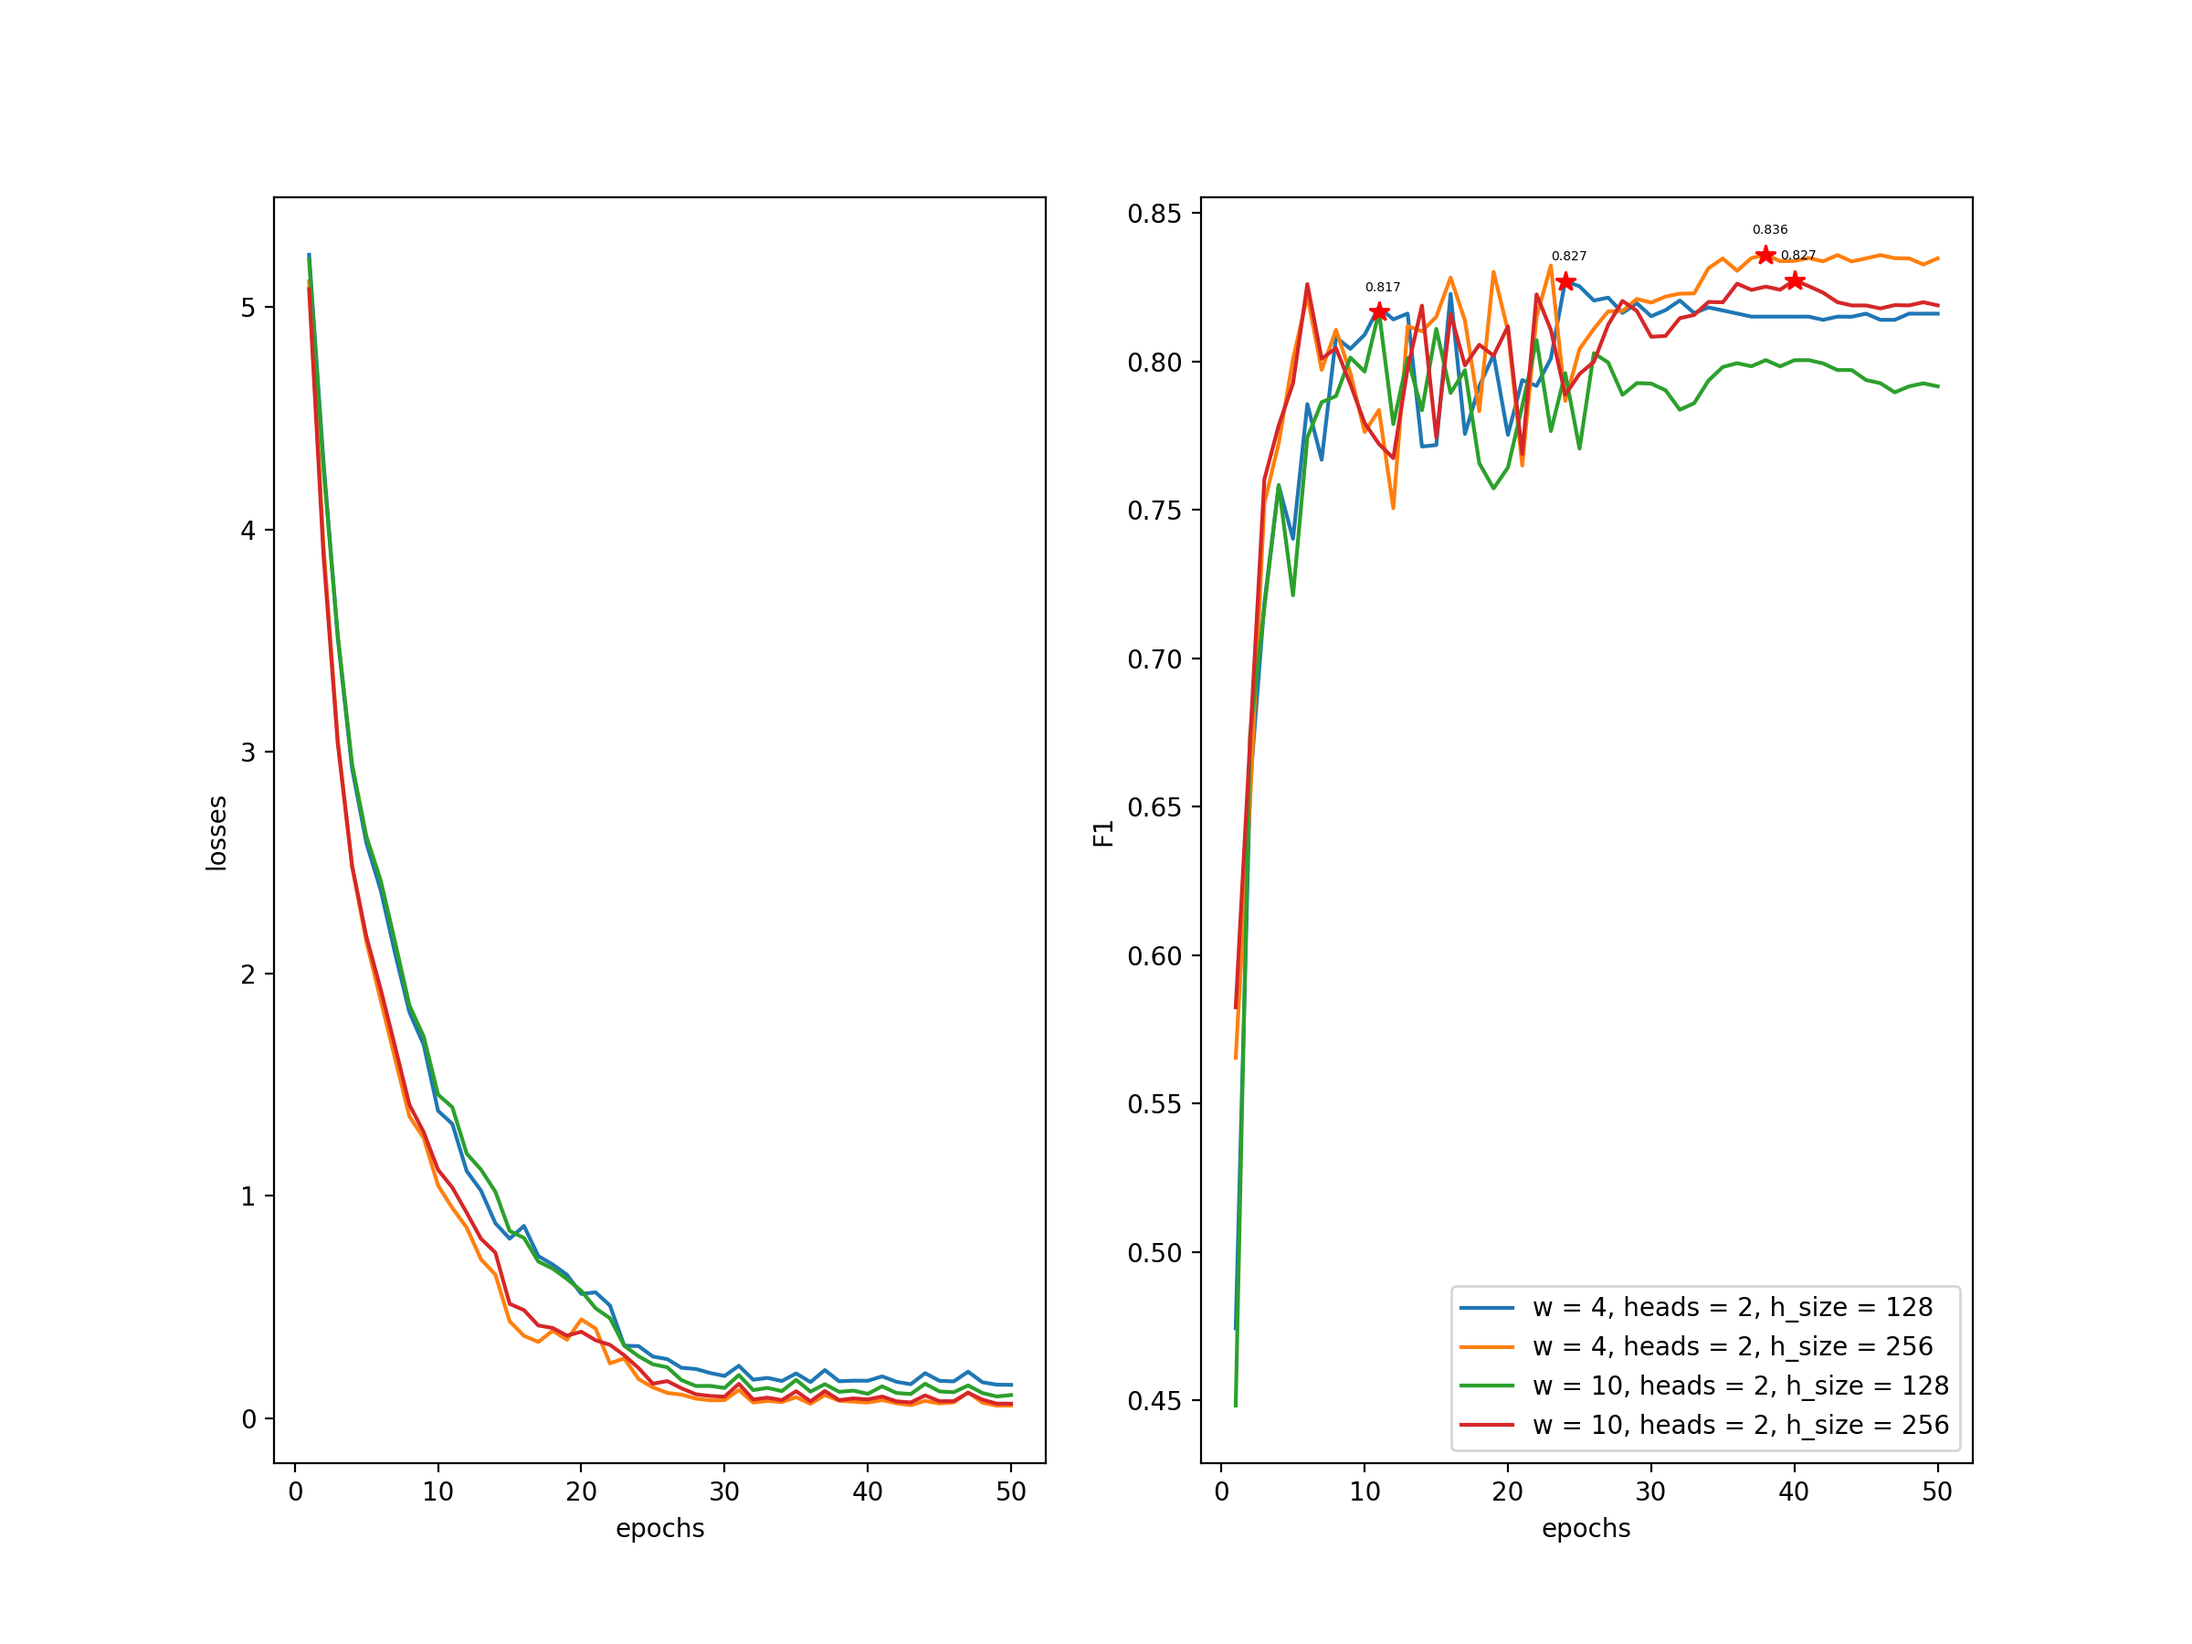
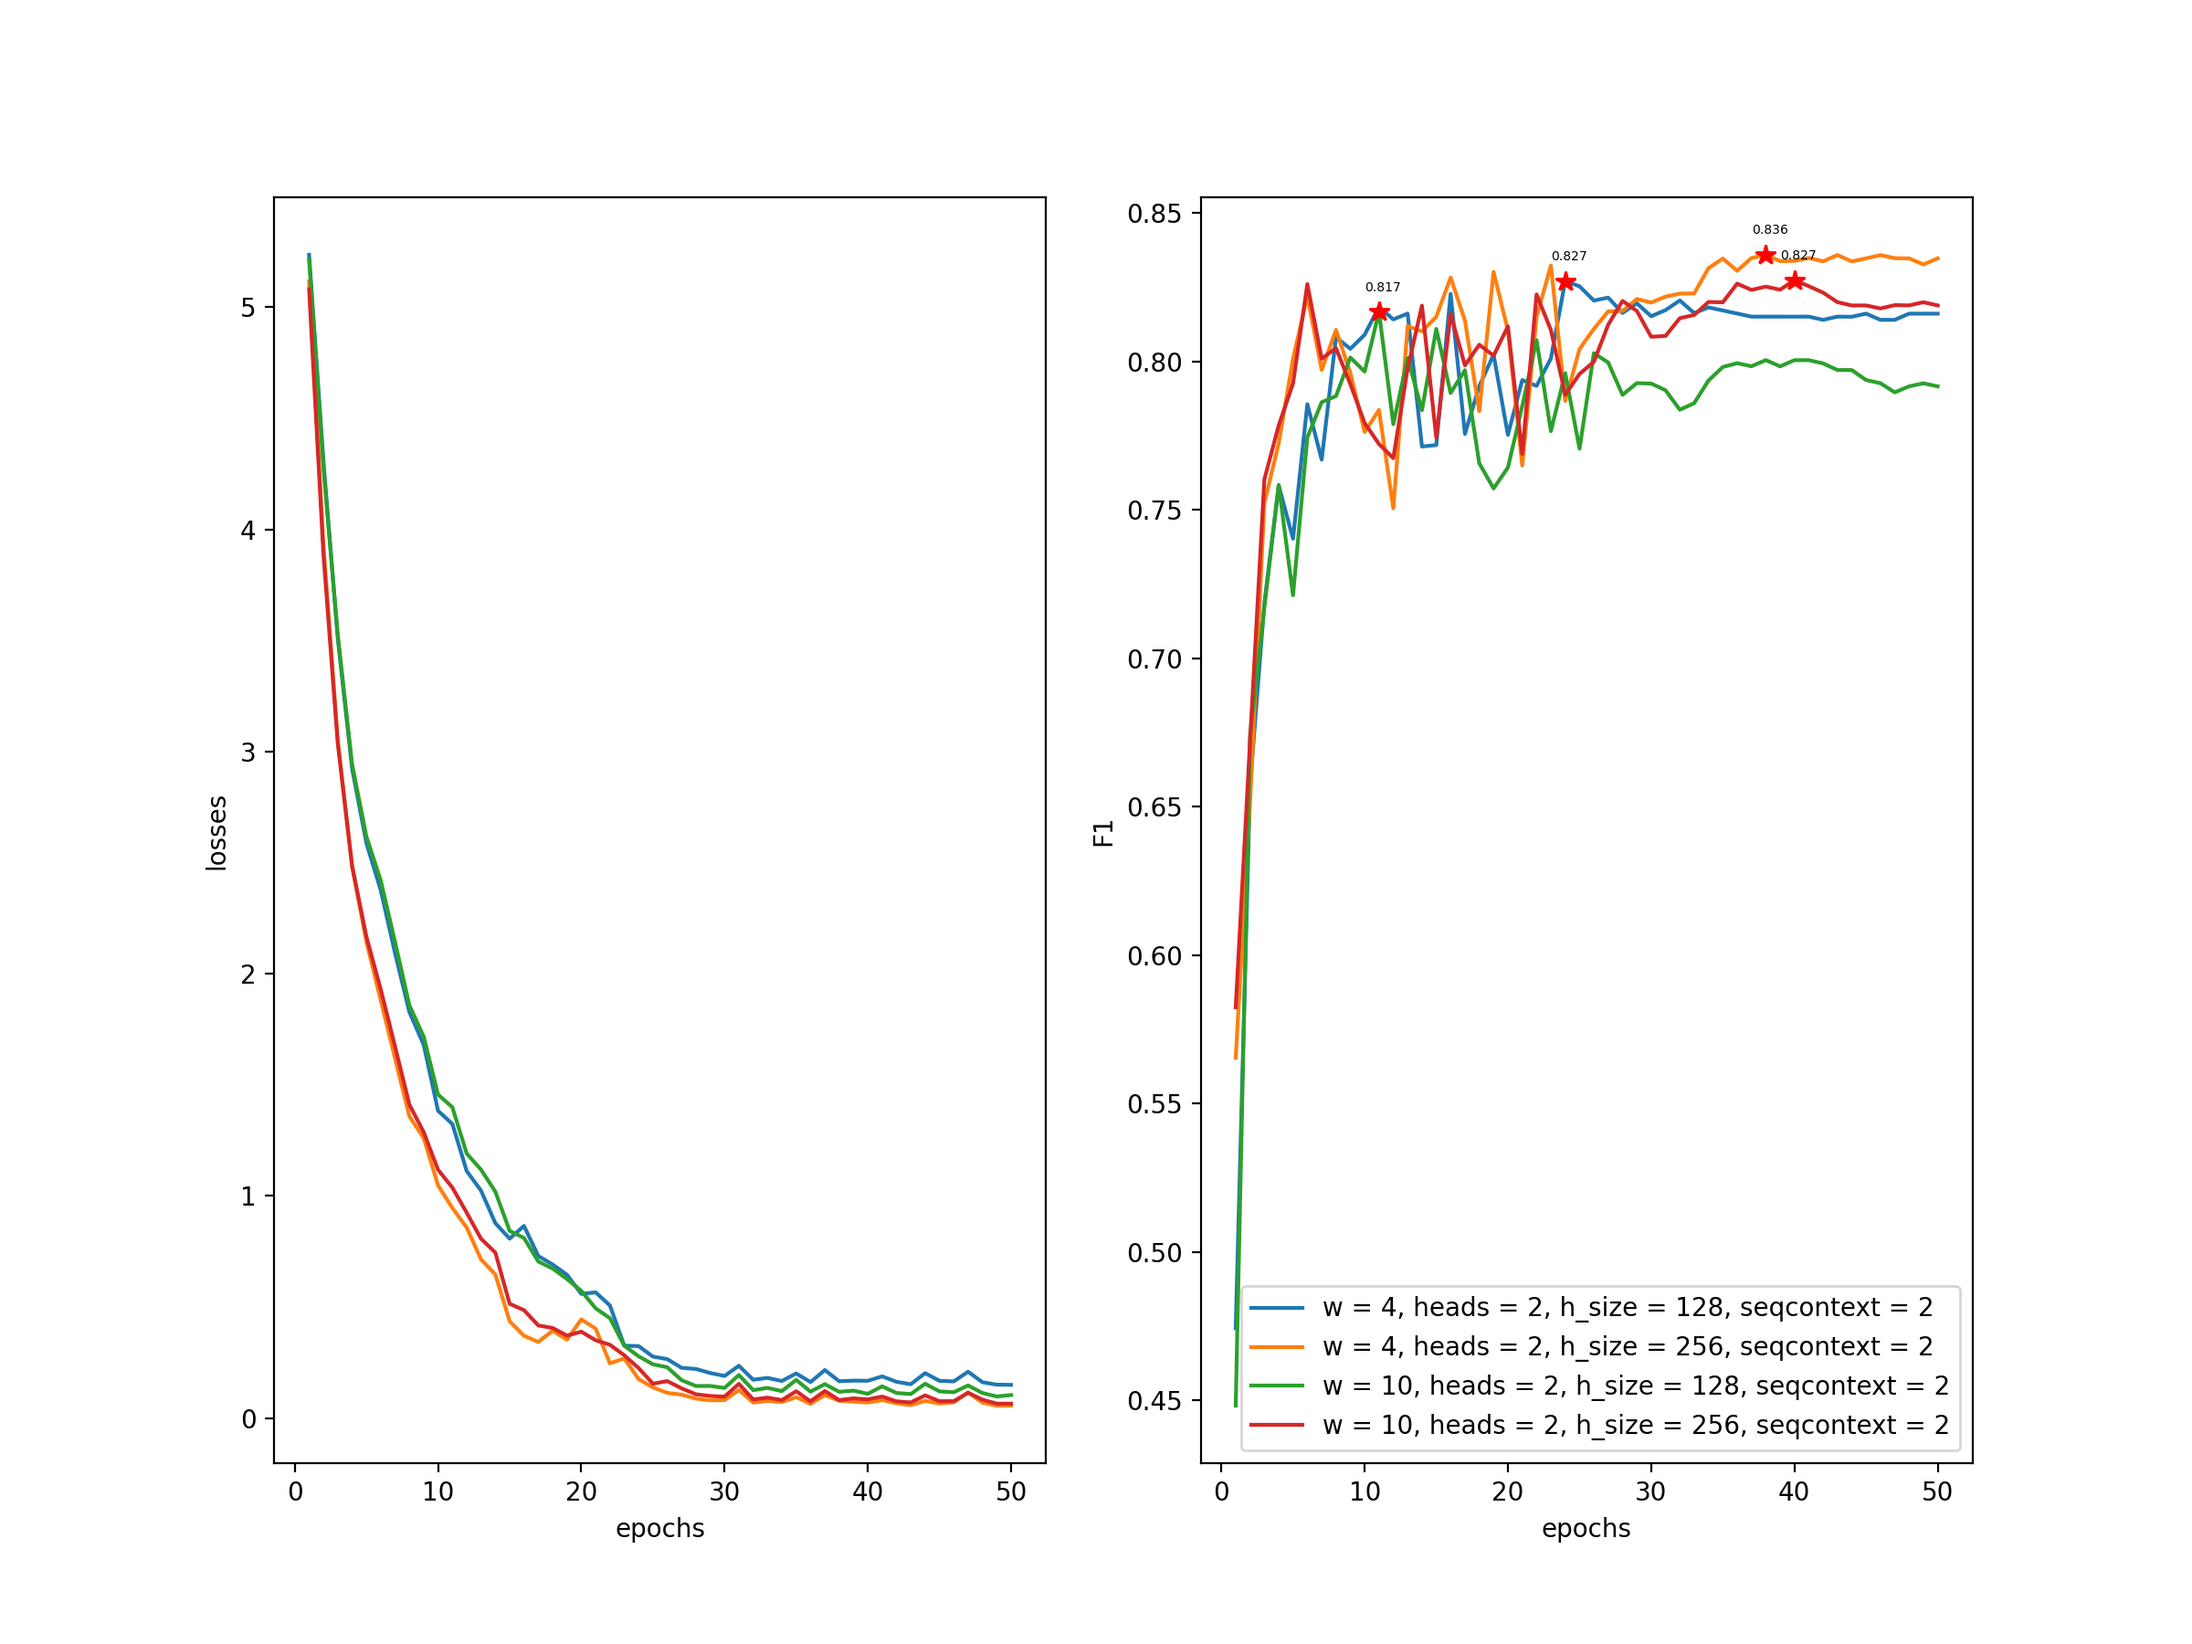
feat: optimize the visualization

Changed region(s): [[0.5625, 0.7778, 0.9062, 0.8711]]

diff --git a/plot_res.py b/plot_res.py
@@ -15,15 +15,17 @@ def plot_gnn_heads(data, args):
     for i in range(iter_num):
         epochs, train_losses, test_f1s = data.iloc[i][["epochs", "train_losses", "test_f1s"]]
         window, gnn_nheads, hidden_size, seqcontext_nlayer = data.iloc[i][["wp", "gnn_nheads", "hidden_size", "seqcontext_nlayer"]]
-        best_test_f1 = max(test_f1s)
-        best_test_f1_epoch = test_f1s.index(best_test_f1) + 1
-        epochs_range = [i for i in range(1, epochs + 1)]
+        train_losses, test_f1s = np.array(train_losses), np.array(test_f1s)
+        best_test_f1 = np.max(test_f1s)
+        best_test_f1_epoch = np.argmax(test_f1s) + 1
+        epochs_range = np.arange(1, epochs + 1)
         
         plt.subplot(1, 2, 1)
         plt.plot(epochs_range, train_losses, label=f"w = {window}, heads = {gnn_nheads}, h_size = {hidden_size}, seqcontext = {seqcontext_nlayer}")
         
         plt.subplot(1, 2, 2)
         plt.plot(epochs_range, test_f1s, label=f"w = {window}, heads = {gnn_nheads}, h_size = {hidden_size}, seqcontext = {seqcontext_nlayer}")
+        # plt.fill_between(epochs_range, test_f1s - np.std(test_f1s), test_f1s + np.std(test_f1s), alpha=0.2)
         plt.plot(best_test_f1_epoch, best_test_f1, "r*", markersize=8)
         plt.text(best_test_f1_epoch - 1, best_test_f1 + 0.007, str(f"{best_test_f1:.3f}"), fontsize=5)
 
@@ -39,60 +41,90 @@ def plot_gnn_heads(data, args):
     plt.savefig(f"results/img/gnn_heads/plot_res_{args.dataset}_{args.gnn_nheads}heads.png")
 
 
-def plot_windows(data):
+def plot_windows(data, zoom_in=True):
     def set_ticks_size(font_size):
         plt.xticks(fontsize=font_size)
         plt.yticks(fontsize=font_size)
 
     iter_num, font_size, marker_size = len(data), 20, 2
-    plt.figure(dpi=200, figsize=(20, 20))
-    grid = plt.GridSpec(2, 2, wspace=0.2, hspace=0.2)
-    colors = cm.Blues(np.linspace(0, 1, iter_num))
+    if zoom_in:
+        plt.figure(dpi=200, figsize=(20, 20))
+        grid = plt.GridSpec(2, 2, wspace=0.2, hspace=0.2)
+        colors = cm.Blues(np.linspace(0, 1, iter_num))
 
-    for i in range(iter_num):
-        epochs, window, train_losses, test_f1s = data.iloc[i][["epochs", "wp", "train_losses", "test_f1s"]]
-        epochs_range = [i for i in range(1, epochs + 1)]
-        if window > 0:
-            line_color = colors[i]
-        elif window == 0:
-            line_color = "red"
-        else:
-            line_color = "orange"
-        
-        plt.subplot(grid[0, 0])
-        plt.title("loss curve", fontsize=font_size)
-        plt.plot(epochs_range, train_losses, "o-", label=f"window = {window}", linewidth=1, color=line_color, markersize=marker_size)
-        
-        plt.subplot(grid[0, 1])
-        plt.title("learning curve", fontsize=font_size)
-        plt.plot(epochs_range, test_f1s, "o-", label=f"window = {window}", linewidth=1, color=line_color, markersize=marker_size)
-
-        plt.subplot(grid[1, 0])
-        plt.title("zoom in", fontsize=font_size)
-        plt.plot(epochs_range, train_losses, "o-", label=f"window = {window}", linewidth=1, color=line_color, markersize=marker_size)
-        plt.xlim((40, 55))
-        plt.ylim((0.3, 0.75))
-
-        plt.subplot(grid[1, 1])
-        plt.title("zoom in", fontsize=font_size)
-        plt.plot(epochs_range, test_f1s, "o-", label=f"window = {window}", linewidth=1, color=line_color, markersize=marker_size)
-        plt.xlim((40, 55))
-        plt.ylim((0.62, 0.68))
-
-    for j in range(2):
-        for k in range(2):
-            if k == 0:
-                plt.subplot(grid[j, k])
-                plt.xlabel("epochs", fontsize=font_size)
-                plt.ylabel("losses", fontsize=font_size)
+        for i in range(iter_num):
+            epochs, window, train_losses, test_f1s = data.iloc[i][["epochs", "wp", "train_losses", "test_f1s"]]
+            epochs_range = [i for i in range(1, epochs + 1)]
+            if window > 0:
+                line_color = colors[i]
+            elif window == 0:
+                line_color = "red"
             else:
-                plt.subplot(grid[j, k])
-                plt.xlabel("epochs", fontsize=font_size)
-                plt.ylabel("F1", fontsize=font_size)
-            set_ticks_size(font_size)
+                line_color = "orange"
+            
+            plt.subplot(grid[0, 0])
+            plt.title("loss curve", fontsize=font_size)
+            plt.plot(epochs_range, train_losses, "o-", label=f"window = {window}", linewidth=1, color=line_color, markersize=marker_size)
+            
+            plt.subplot(grid[0, 1])
+            plt.title("learning curve", fontsize=font_size)
+            plt.plot(epochs_range, test_f1s, "o-", label=f"window = {window}", linewidth=1, color=line_color, markersize=marker_size)
 
-    plt.legend(loc=2, bbox_to_anchor=(1.02, 1.5), prop={"size": 12}) 
-    plt.savefig("results/img/windows/plot_res_windows.png")
+            plt.subplot(grid[1, 0])
+            plt.title("zoom in", fontsize=font_size)
+            plt.plot(epochs_range, train_losses, "o-", label=f"window = {window}", linewidth=1, color=line_color, markersize=marker_size)
+            plt.xlim((40, 55))
+            plt.ylim((0.3, 0.75))
+
+            plt.subplot(grid[1, 1])
+            plt.title("zoom in", fontsize=font_size)
+            plt.plot(epochs_range, test_f1s, "o-", label=f"window = {window}", linewidth=1, color=line_color, markersize=marker_size)
+            plt.xlim((40, 55))
+            plt.ylim((0.62, 0.68))
+
+        for j in range(2):
+            for k in range(2):
+                if k == 0:
+                    plt.subplot(grid[j, k])
+                    plt.xlabel("epochs", fontsize=font_size)
+                    plt.ylabel("losses", fontsize=font_size)
+                else:
+                    plt.subplot(grid[j, k])
+                    plt.xlabel("epochs", fontsize=font_size)
+                    plt.ylabel("F1", fontsize=font_size)
+                set_ticks_size(font_size)
+
+        plt.legend(loc=2, bbox_to_anchor=(1.02, 1.5), prop={"size": 12})
+        plt.savefig("results/img/windows/plot_res_windows_zoom_in.png")
+    else:
+        plt.figure(dpi=200, figsize=(8, 5))
+        grid = plt.GridSpec(1, 2, wspace=0.2, hspace=0.2)
+        colors = cm.Blues(np.linspace(0, 1, iter_num))
+
+        for i in range(iter_num):
+            epochs, window, train_losses, test_f1s = data.iloc[i][["epochs", "wp", "train_losses", "test_f1s"]]
+            epochs_range = [i for i in range(1, epochs + 1)]
+            if window > 0:
+                line_color = colors[i]
+            elif window == 0:
+                line_color = "red"
+            else:
+                line_color = "orange"
+            
+            plt.subplot(grid[0, 0])
+            plt.title("loss curve", fontsize=font_size // 2)
+            plt.plot(epochs_range, train_losses, "o-", label=f"window = {window}", linewidth=1, color=line_color, markersize=marker_size // 2)
+            plt.xlabel("epochs", fontsize=font_size // 2)
+            plt.ylabel("losses", fontsize=font_size // 2)
+            
+            plt.subplot(grid[0, 1])
+            plt.title("learning curve", fontsize=font_size // 2)
+            plt.plot(epochs_range, test_f1s, "o-", label=f"window = {window}", linewidth=1, color=line_color, markersize=marker_size // 2)
+            plt.xlabel("epochs", fontsize=font_size // 2)
+            plt.ylabel("F1", fontsize=font_size // 2)
+        set_ticks_size(font_size=font_size // 2)
+        plt.legend(loc=2, bbox_to_anchor=(0.6, 0.7), prop={"size": 7})
+        plt.savefig("results/img/windows/plot_res_windows.png")
 
 
 def plot_label_metrics(data, args):
@@ -124,6 +156,48 @@ def plot_label_metrics(data, args):
     plt.savefig(f"results/img/label_metrics/label_metrics_{args.dataset}_{args.modalities}.png")
 
 
+def plot_all_label_metrics(args):
+    labels = {
+        "hap": "happy",
+        "sad": "sad",
+        "neu": "neutral",
+        "ang": "angry",
+        "exc": "excited",
+        "fru": "frustrated"
+    }
+    modalities = ["a", "t", "v", "at", "av", "tv", "atv"]
+    plt.figure(dpi=200, figsize=(12, 9))
+    
+    for i in range(len(modalities)):
+        with open(f"results/label_metrics_pkl/label_metrics_{args.dataset}_{modalities[i]}.pkl", "rb") as file:
+            data = pickle.load(file)
+        metrics = defaultdict(list)
+
+        for dic in data:
+            for emotion_label in dic.keys():
+                metrics[emotion_label].append(dic[emotion_label]["f1-score"])
+        
+        if i + 1 < 7:
+            plt.subplot(3, 3, i + 1)
+        else:
+            plt.subplot(3, 3, 8)
+        epoch = len(metrics["hap"]) + 1
+        epochs = np.arange(1, epoch)
+        for emotion_label, series in metrics.items():
+            series = np.array(series)
+            plt.plot(epochs, series, label=labels[emotion_label])
+            plt.fill_between(epochs, series - np.std(series), series + np.std(series), alpha=0.2)
+
+        plt.ylim((-0.1, 1))
+        plt.title(f"modalities: {modalities[i]}", fontsize=10)
+
+    plt.xlabel("epochs")
+    plt.ylabel("F1")
+    plt.legend(loc=2, bbox_to_anchor=(1, 1), prop={"size": 14})
+    plt.suptitle(f"dataset: {args.dataset.upper()}", fontsize=12)
+    plt.savefig(f"results/img/label_metrics/all_{args.dataset}.png")
+
+
 def main(args):
     res = pd.read_csv("results/train_res.csv")
     res.loc[:, "train_losses"] = res["train_losses"].apply(literal_eval)
@@ -136,17 +210,21 @@ def main(args):
     if args.plot == "windows":
         res_windows = res[(res["gnn_nheads"] == 6) & (res["dataset"] == "iemocap") & (res["experiment"] == 2)]
         plot_windows(res_windows)
+        plot_windows(res_windows, zoom_in=False)
 
     if args.plot == "label_metrics":
         with open(f"results/label_metrics_pkl/label_metrics_{args.dataset}_{args.modalities}.pkl", "rb") as file:
             res_label_metrics = pickle.load(file)
         plot_label_metrics(res_label_metrics, args)
 
+    if args.plot == "all_modalities_label_metrics":
+        plot_all_label_metrics(args)
+
 
 if __name__ == "__main__":
     parser = argparse.ArgumentParser(description="plot_res.py")
     parser.add_argument(
-        "--plot", type=str, help="Types of figures", choices=["gnn_heads", "windows", "label_metrics"], default="gnn_heads"
+        "--plot", type=str, help="Types of figures", choices=["gnn_heads", "windows", "label_metrics", "all_modalities_label_metrics"], default="gnn_heads"
     )
     parser.add_argument(
         "--dataset", type=str, help="Dataset that was used", default="iemocap_4"

diff --git a/eval.py b/eval.py
@@ -2,7 +2,6 @@ import pickle
 import os
 import argparse
 import torch
-import os
 
 import numpy as np
 import matplotlib.pyplot as plt
